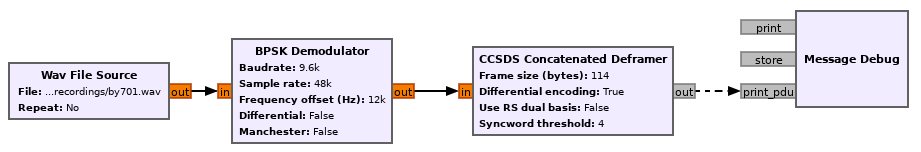
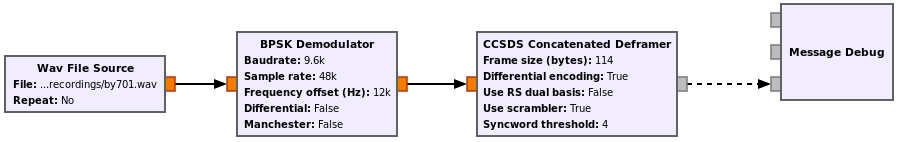
Add option to disable scrambling in CCSDS deframers
This is needed for BeliefSat-1, which uses CCSDS Reed-Solomon
frames but no scrambling. It is also good to have this in
general, as other satellites or systems might do the same.

The number of CCSDS framings for the SatYAML files has now
duplicated. This is a bit ugly, but for the time being will
remain like so.

This closes #90

Changed region(s): [[0.0, 0.0, 0.9989, 0.9859], [0.5307, 0.1972, 0.7804, 0.2535]]

diff --git a/python/components/deframers/ccsds_rs_deframer.py b/python/components/deframers/ccsds_rs_deframer.py
@@ -27,10 +27,12 @@ class ccsds_rs_deframer(gr.hier_block2, options_block):
         frame_size: frame size (not including parity check bytes) (int)
         differential: whether to use differential coding (bool)
         dual_basis: use dual basis instead of conventional (bool)
+        use_scrambler: use CCSDS synchronous scrambler (bool)
         syncword_threshold: number of bit errors allowed in syncword (int)
         options: Options from argparse
     """
-    def __init__(self, frame_size = 223, differential = False, dual_basis = False, syncword_threshold = None, options = None):
+    def __init__(self, frame_size = 223, differential = False, dual_basis = False,
+                     use_scrambler = True, syncword_threshold = None, options = None):
         gr.hier_block2.__init__(self, "ccsds_rs_deframer",
             gr.io_signature(1, 1, gr.sizeof_float),
             gr.io_signature(0, 0, 0))
@@ -47,7 +49,8 @@ class ccsds_rs_deframer(gr.hier_block2, options_block):
         self.deframer = sync_to_pdu(packlen = (frame_size + 32) * 8,\
                                     sync = _syncword,\
                                     threshold = syncword_threshold)
-        self.scrambler = ccsds_descrambler()
+        if use_scrambler:
+            self.scrambler = ccsds_descrambler()
         self.fec = decode_rs(self.options.verbose_rs, 1 if dual_basis else 0)
 
         self._blocks = [self, self.slicer]
@@ -56,8 +59,11 @@ class ccsds_rs_deframer(gr.hier_block2, options_block):
         self._blocks += [self.deframer]
 
         self.connect(*self._blocks)
-        self.msg_connect((self.deframer, 'out'), (self.scrambler, 'in'))
-        self.msg_connect((self.scrambler, 'out'), (self.fec, 'in'))
+        if use_scrambler:
+            self.msg_connect((self.deframer, 'out'), (self.scrambler, 'in'))
+            self.msg_connect((self.scrambler, 'out'), (self.fec, 'in'))
+        else:
+            self.msg_connect((self.deframer, 'out'), (self.fec, 'in'))
         self.msg_connect((self.fec, 'out'), (self, 'out'))
 
     _default_sync_threshold = 4

diff --git a/python/components/deframers/ccsds_concatenated_deframer.py b/python/components/deframers/ccsds_concatenated_deframer.py
@@ -25,10 +25,12 @@ class ccsds_concatenated_deframer(gr.hier_block2, options_block):
         frame_size: frame size (not including parity check bytes) (int)
         differential: whether to use differential coding (bool)
         dual_basis: use dual basis instead of conventional (bool)
+        use_scrambler: use CCSDS synchronous scrambler (bool)
         syncword_threshold: number of bit errors allowed in syncword (int)
         options: Options from argparse
     """
-    def __init__(self, frame_size = 223, differential = False, dual_basis = False, syncword_threshold = None, options = None):
+    def __init__(self, frame_size = 223, differential = False, dual_basis = False,
+                     use_scrambler = True, syncword_threshold = None, options = None):
         gr.hier_block2.__init__(self, "ccsds_concatenated_deframer",
             gr.io_signature(1, 1, gr.sizeof_float),
             gr.io_signature(0, 0, 0))
@@ -43,8 +45,10 @@ class ccsds_concatenated_deframer(gr.hier_block2, options_block):
         self.char2float1 = blocks.char_to_float(1, 1)
         self.addconst0 = blocks.add_const_ff(-0.5)
         self.addconst1 = blocks.add_const_ff(-0.5)
-        self.rs0 = ccsds_rs_deframer(frame_size, differential, dual_basis, syncword_threshold, options)
-        self.rs1 = ccsds_rs_deframer(frame_size, differential, dual_basis, syncword_threshold, options)
+        self.rs0 = ccsds_rs_deframer(frame_size, differential, dual_basis,
+                                         use_scrambler, syncword_threshold, options)
+        self.rs1 = ccsds_rs_deframer(frame_size, differential, dual_basis,
+                                         use_scrambler, syncword_threshold, options)
 
         self.connect(self, self.viterbi0, self.char2float0, self.addconst0, self.rs0)
         self.connect(self, self.delay1, self.viterbi1, self.char2float1, self.addconst1, self.rs1)

diff --git a/python/core/gr_satellites_flowgraph.py b/python/core/gr_satellites_flowgraph.py
@@ -265,6 +265,14 @@ class gr_satellites_flowgraph(gr.hier_block2):
         'CCSDS Concatenated dual' : set_options(deframers.ccsds_concatenated_deframer, dual_basis = True),
         'CCSDS Concatenated differential' : set_options(deframers.ccsds_concatenated_deframer, differential = True),
         'CCSDS Concatenated dual differential' : set_options(deframers.ccsds_concatenated_deframer, differential = True, dual_basis = True),
+        'CCSDS Reed-Solomon no-scrambler' : set_options(deframers.ccsds_rs_deframer, use_scrambler = False),
+        'CCSDS Reed-Solomon dual no-scrambler' : set_options(deframers.ccsds_rs_deframer, dual_basis = True, use_scrambler = False),
+        'CCSDS Reed-Solomon differential no-scrambler' : set_options(deframers.ccsds_rs_deframer, differential = True, use_scrambler = False),
+        'CCSDS Reed-Solomon dual differential no-scrambler' : set_options(deframers.ccsds_rs_deframer, differential = True, dual_basis = True, use_scrambler = False),
+        'CCSDS Concatenated no-scrambler' : set_options(deframers.ccsds_concatenated_deframer, use_scrambler = False),
+        'CCSDS Concatenated dual no-scrambler' : set_options(deframers.ccsds_concatenated_deframer, dual_basis = True, use_scrambler = False),
+        'CCSDS Concatenated differential no-scrambler' : set_options(deframers.ccsds_concatenated_deframer, differential = True, use_scrambler = False),
+        'CCSDS Concatenated dual differential no-scrambler' : set_options(deframers.ccsds_concatenated_deframer, differential = True, dual_basis = True, use_scrambler = False),
         'LilacSat-1' : deframers.lilacsat_1_deframer,
         'AAUSAT-4' : deframers.aausat4_deframer,
         'NGHam' : set_options(deframers.ngham_deframer, decode_rs = True),

diff --git a/python/satyaml/satyaml.py b/python/satyaml/satyaml.py
@@ -27,8 +27,13 @@ class SatYAML:
                 'AO-40 FEC', 'AO-40 FEC short', 'AO-40 uncoded', 'TT-64', 'ESEO', 'Lucky-7',\
                 'Reaktor Hello World', 'S-NET', 'Swiatowid', 'NuSat', 'K2SAT',\
                 'CCSDS Reed-Solomon', 'CCSDS Reed-Solomon dual', 'CCSDS Reed-Solomon differential',\
+                'CCSDS Reed-Solomon no-scrambler', 'CCSDS Reed-Solomon dual no-scrambler',\
+                'CCSDS Reed-Solomon differential no-scrambler',\
                 'CCSDS Reed-Solomon dual differential', 'CCSDS Concatenated', 'CCSDS Concatenated dual',\
+                'CCSDS Reed-Solomon dual differential no-scrambler',\
+                'CCSDS Concatenated no-scrambler', 'CCSDS Concatenated dual no-scrambler',\
                 'CCSDS Concatenated differential', 'CCSDS Concatenated dual differential',\
+                'CCSDS Concatenated differential no-scrambler', 'CCSDS Concatenated dual differential no-scrambler',\
                 'LilacSat-1', 'AAUSAT-4', 'NGHam', 'NGHam no Reed Solomon', 'SMOG-P RA',\
                 'SMOG-P Signalling', 'OPS-SAT', 'U482C', 'UA01']
     transports = ['KISS', 'KISS no control byte', 'KISS KS-1Q']

diff --git a/docs/source/satyaml.rst b/docs/source/satyaml.rst
@@ -154,6 +154,30 @@ The framings allowed in the ``framing`` field are the following:
 * ``CCSDS Concatenated dual differential``, CCSDS Concatenated TM codewords with
   differential encoding and dual RS basis (see :ref:`CCSDS deframers`)
 
+* ``CCSDS Reed-Solomon no-scrambler``, CCSDS Reed-Solomon TM codewords with conventional RS
+  basis and scrambler disabled (see :ref:`CCSDS deframers`)
+
+* ``CCSDS Reed-Solomon dual no-scrambler``, CCSDS Reed-Solomon TM codewords with dual RS
+  basis and scrambler disabled (see :ref:`CCSDS deframers`)
+
+* ``CCSDS Reed-Solomon differential no-scrambler``, CCSDS Reed-Solomon TM codewords with
+  differential encoding, conventional RS basis and scrambler disabled (see :ref:`CCSDS deframers`)
+
+* ``CCSDS Reed-Solomon dual differential no-scrambler``, CCSDS Reed-Solomon TM codewords with
+  differential encoding, dual RS basis and scrambler disabled (see :ref:`CCSDS deframers`)
+
+* ``CCSDS Concatenated no-scrambler``, CCSDS Concatenated TM codewords with conventional RS
+  basis and scrambler disabled (see :ref:`CCSDS deframers`)
+
+* ``CCSDS Concatenated dual no-scrambler``, CCSDS concatenated TM codewords with dual RS
+  basis and scrambler disabled (see :ref:`CCSDS deframers`)
+
+* ``CCSDS Concatenated differential no-scrambler``, CCSDS Concatenated TM codewords with
+  differential encoding, conventional RS basis and scrambler disabled (see :ref:`CCSDS deframers`)
+
+* ``CCSDS Concatenated dual differential no-scrambler``, CCSDS Concatenated TM codewords with
+  differential encoding, dual RS basis and scrambler disabled (see :ref:`CCSDS deframers`)
+
 * ``3CAT-1``, custom framing used by 3CAT-1. This uses a CC1101 chip with PN9
   scrambler and a (255,223) Reed-Solomon code for the payload
 

diff --git a/docs/source/components.rst b/docs/source/components.rst
@@ -403,7 +403,9 @@ The *Frame size* option indicates the size of the frame in bytes (after
 Reed-Solomon decoding). The *Differential encoding* option enables differential
 decoding, which is often used to solve the BPSK 180º phase ambiguity. The
 *Use RS dual basis* option enables the usage of the dual basis definition for the Reed-Solmon
-code. The *Syncword threshold* option can be used to choose the number of bit
+code. The *Use scrambler* option enables or disables the use of the CCSDS synchronous
+descrambler. Most satellites using CCSDS frames use scrambling.
+The *Syncword threshold* option can be used to choose the number of bit
 errors that are allowed in the detection of the syncword.
     
 .. figure:: images/ccsds_deframer_options.png

diff --git a/CHANGELOG.md b/CHANGELOG.md
@@ -9,6 +9,7 @@ and this project adheres to [Semantic Versioning](https://semver.org/spec/v2.0.0
 ### Added
 - Example flowgraphs from gr-kiss
 - Support for CAS-6
+- Option to disable scrambler in CCSDS deframers	
 
 ### Changed
 - Do not use DC-block in AFSK demodulator
